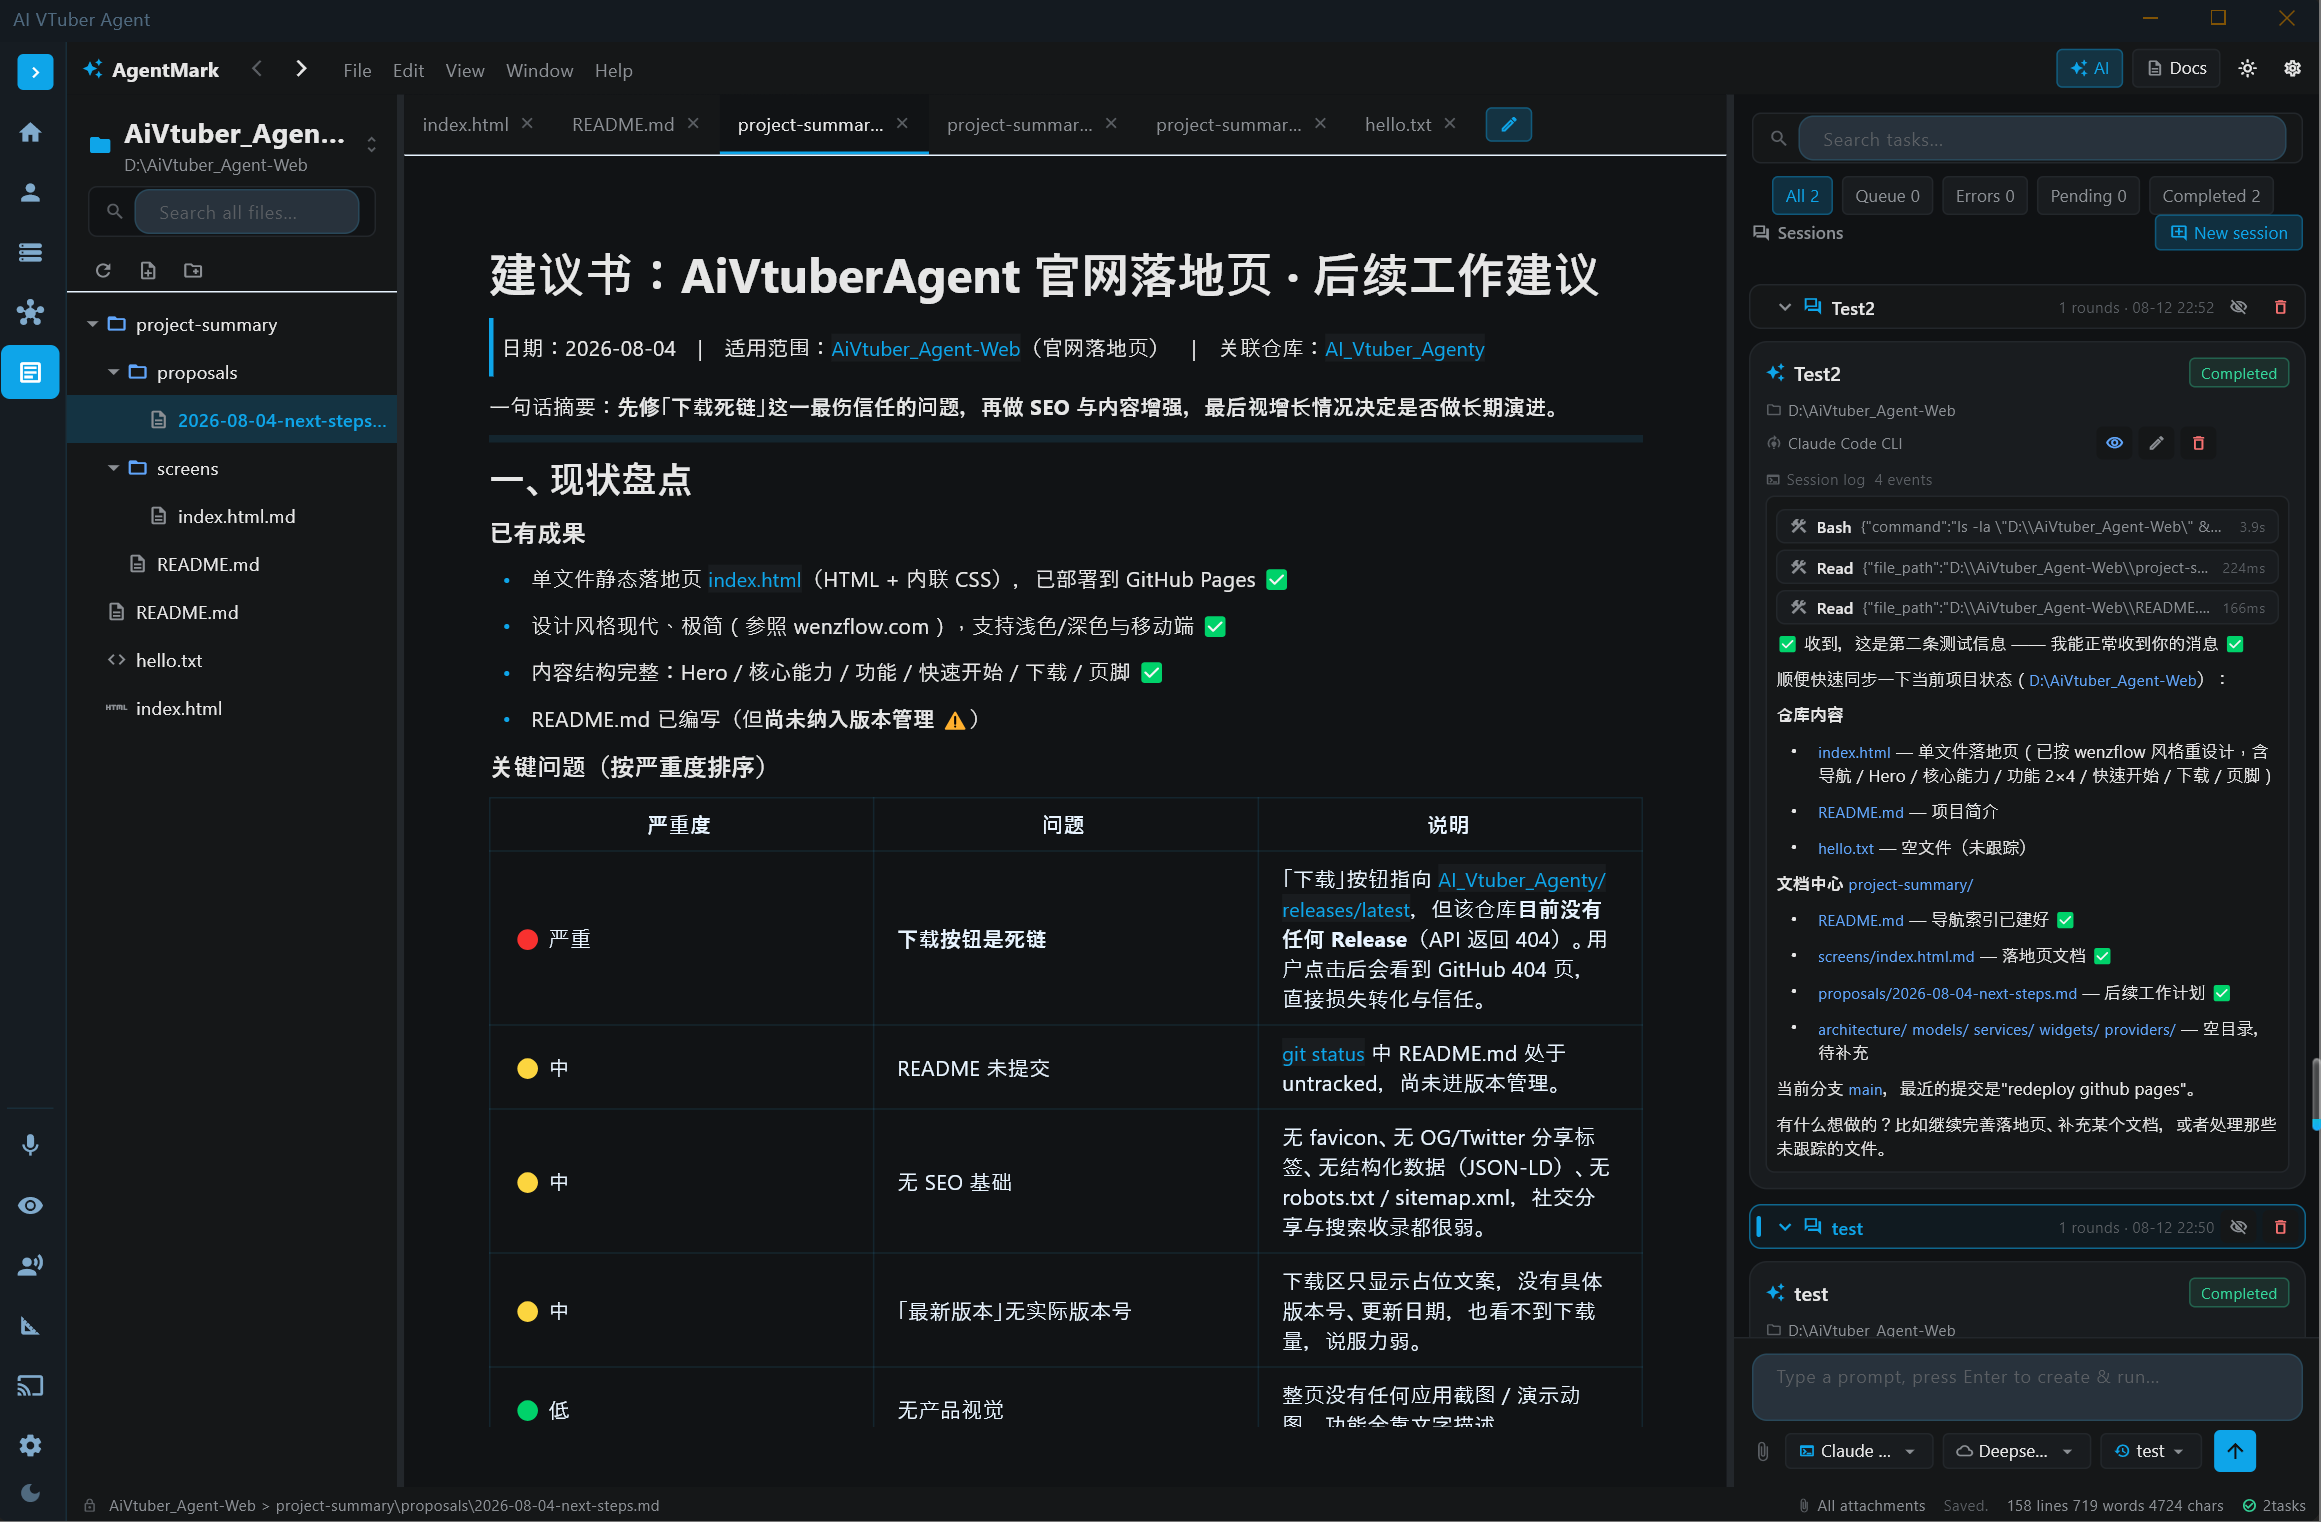
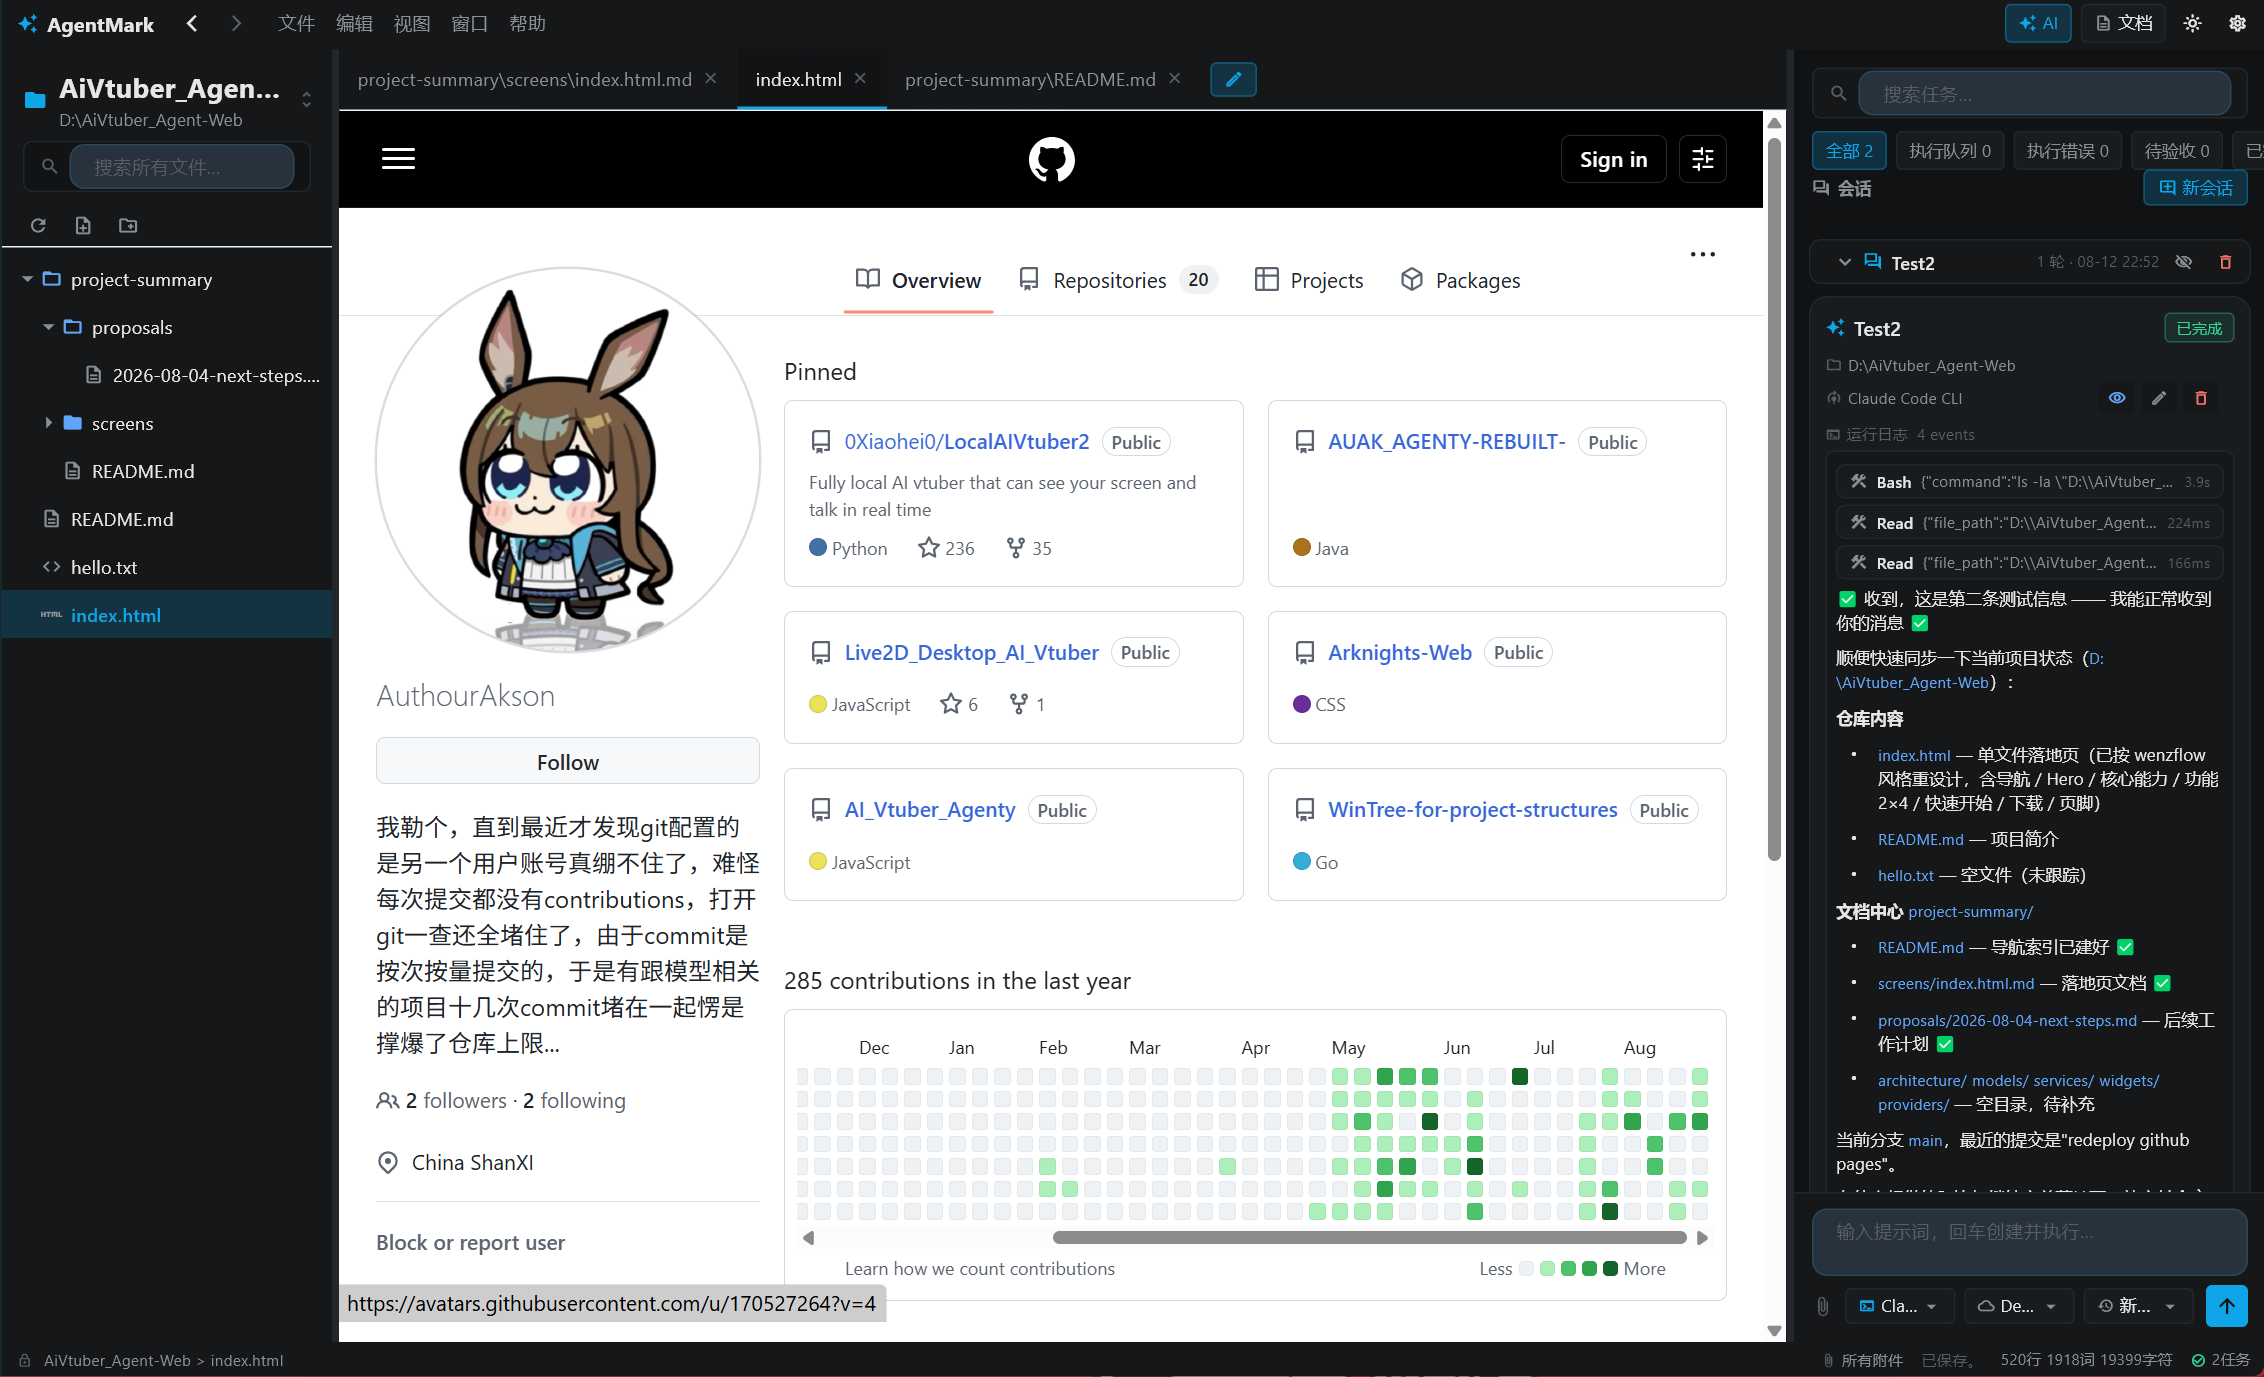
docs: add Chinese README and update screenshots with MarkdownText page 4

diff --git a/README.zh-CN.md b/README.zh-CN.md
@@ -1,0 +1,102 @@
+# AI VTuber Agent
+
+[English](README.md) | [简体中文](README.zh-CN.md)
+
+一个基于 **Flutter Desktop (Windows)** 的 AI VTuber 应用，集成了 Live2D/VRM 角色、Bilibili 直播、TTS 语音和 WenzAgent 多智能体网络。界面复刻 LocalAIVtuber2 的 React + shadcn/ui 视觉风格，并扩展了员工人格化、观众弹幕派活和 A/I/U/E/O 口型同步能力。
+
+## 页面截图
+
+| 页面 | 预览 |
+|------|------|
+| 首页 / 聊天 | ![Home](image/HomePage.png) |
+| 角色（Live2D / VRM） | ![Character](image/CharacterPage.png) |
+| TTS 语音 | ![TTS](image/TTsPage.png) |
+| 记忆 | ![Memory](image/MemoryPage.png) |
+| 直播 | ![Stream](image/StreamPage.png) |
+| 流水线监控 | ![Pipeline](image/StreamPipelinePage.png) |
+| 多智能体员工会话 | ![Agent Chat](image/MultiAgent-EmployeeSession.png) |
+| 多智能体设置 | ![Agent Settings](image/MultiAgent-Settings.png) |
+| 多智能体数据同步 | ![Data Sync](image/MultiAgent-Settings-DataSync.png) |
+| MarkdownText IDE 1 | ![MarkdownText 1](image/MarkdownTextPage1.png) |
+| MarkdownText IDE 2 | ![MarkdownText 2](image/MarkdownTextPage2.png) |
+| MarkdownText IDE 3 | ![MarkdownText 3](image/MarkdownTextPage3.png) |
+| MarkdownText IDE 4 | ![MarkdownText 4](image/MarkdownTextPage4.png) |
+
+## 功能特性
+
+### AI 聊天与角色
+- 兼容 OpenAI API 的流式 LLM 聊天（SiliconFlow / OpenRouter / Anthropic / Google / Ollama）
+- Live2D / VRM 3D 角色渲染（WebView + PixiJS / Three.js）
+- Edge-TTS / GPT-SoVITS 语音合成 + 本地缓存
+- OBS 弹窗角色窗口（支持色度键背景）
+- VRM 支持 A/I/U/E/O 口型动画，Live2D 支持音量驱动张嘴
+
+### Bilibili 直播
+- Bilibili 弹幕轮询、自动回复、滑动窗口/顺序回复模式
+- Setlist 编辑器（系统提示 / AI 回复 / 聊天 / 唱歌节点）
+- 观众可直接向 WenzAgent 员工派发任务：
+  - `@员工名 任务内容`
+  - `@agent 任务内容`
+  - `!agent 任务内容`
+- Agent 的确认请求会通过 TTS 播报，观众可用弹幕 `1` / `2` / 选项名进行选择
+
+### WenzAgent 多智能体
+- LAN 设备 / 员工管理
+- AI 员工人格化：为每个员工绑定 Live2D/VRM 形象、音色和系统提示词
+- confirm 工具渲染为可点击选项卡片
+- Agent 回复可以使用员工绑定音色播报
+- WebDAV / 本地文件夹增量同步（内容哈希去重）
+
+### MarkdownText IDE（AgentMark）
+- 项目文档工作台：文件树 + Markdown 编辑器 + AI 任务中心
+- 支持员工 / Claude Code CLI 执行器
+- 结构化流式任务事件与工具进度
+
+### 其他
+- 截图视觉识别 / OCR
+- 本地记忆搜索
+- 流水线监控
+- 16 套 shadcn 风格主题
+- i18n：英文 / 简体中文 / 繁体中文
+
+## 技术栈
+
+- **前端：** Flutter Desktop (Windows)
+- **状态管理：** Provider (ChangeNotifier)
+- **UI：** ShadTheme（shadcn/ui 风格，Material 3 基座）
+- **窗口：** bitsdojo_window + flutter_acrylic
+- **Live2D：** PixiJS + Live2D Cubism SDK
+- **VRM：** Three.js + @pixiv/three-vrm
+- **TTS：** edge-tts CLI / GPT-SoVITS HTTP API + ffmpeg
+- **多智能体：** WenzAgent Dart SDK (LAN)
+- **存储：** `D:\AiVtuber_Agent_profile\` 本地 JSON / SQLite 数据
+
+## 快速开始
+
+```bash
+cd D:\AiVtuber_Agent
+flutter pub get
+flutter run -d windows
+```
+
+## 数据目录
+
+```
+D:\AiVtuber_Agent_profile\
+├── settings.json              # LLM / TTS / 角色设置
+├── sessions\                   # 聊天会话 JSON
+├── tts_cache\                  # TTS 音频缓存
+├── screenshots\                # 截图
+├── models\live2d\              # Live2D 模型
+├── models\vrm\                 # VRM 模型
+├── wenzagent\                  # WenzAgent SDK 数据
+└── wenzagent_profiles.json     # 多智能体配置 + 员工人格化数据
+```
+
+## 开发
+
+```bash
+flutter pub get
+flutter run -d windows
+flutter build windows --release
+```

diff --git a/README.md b/README.md
@@ -1,5 +1,7 @@
 # AI VTuber Agent
 
+[English](README.md) | [简体中文](README.zh-CN.md)
+
 A Flutter Desktop (Windows) AI VTuber application that combines a live 2D/3D character, Bilibili streaming, TTS voice, and a WenzAgent multi-agent network. It reproduces the LocalAIVtuber2 React + shadcn/ui visual language and extends it with employee personas, viewer-dispatched agent tasks, and A/I/U/E/O viseme lip-sync.
 
 ## Screenshots
@@ -18,6 +20,7 @@ A Flutter Desktop (Windows) AI VTuber application that combines a live 2D/3D cha
 | MarkdownText IDE 1 | ![MarkdownText 1](image/MarkdownTextPage1.png) |
 | MarkdownText IDE 2 | ![MarkdownText 2](image/MarkdownTextPage2.png) |
 | MarkdownText IDE 3 | ![MarkdownText 3](image/MarkdownTextPage3.png) |
+| MarkdownText IDE 4 | ![MarkdownText 4](image/MarkdownTextPage4.png) |
 
 ## Features
 
@@ -44,7 +47,7 @@ A Flutter Desktop (Windows) AI VTuber application that combines a live 2D/3D cha
 - Agent replies can be spoken with the employee's bound voice
 - WebDAV / local-folder data sync with incremental content-hash upload
 
-### MarkdownText IDE
+### MarkdownText IDE (AgentMark)
 - Project document workspace with file tree, Markdown editor, and AI task center
 - Employees / Claude Code CLI executors
 - Structured streaming task events with tool progress
